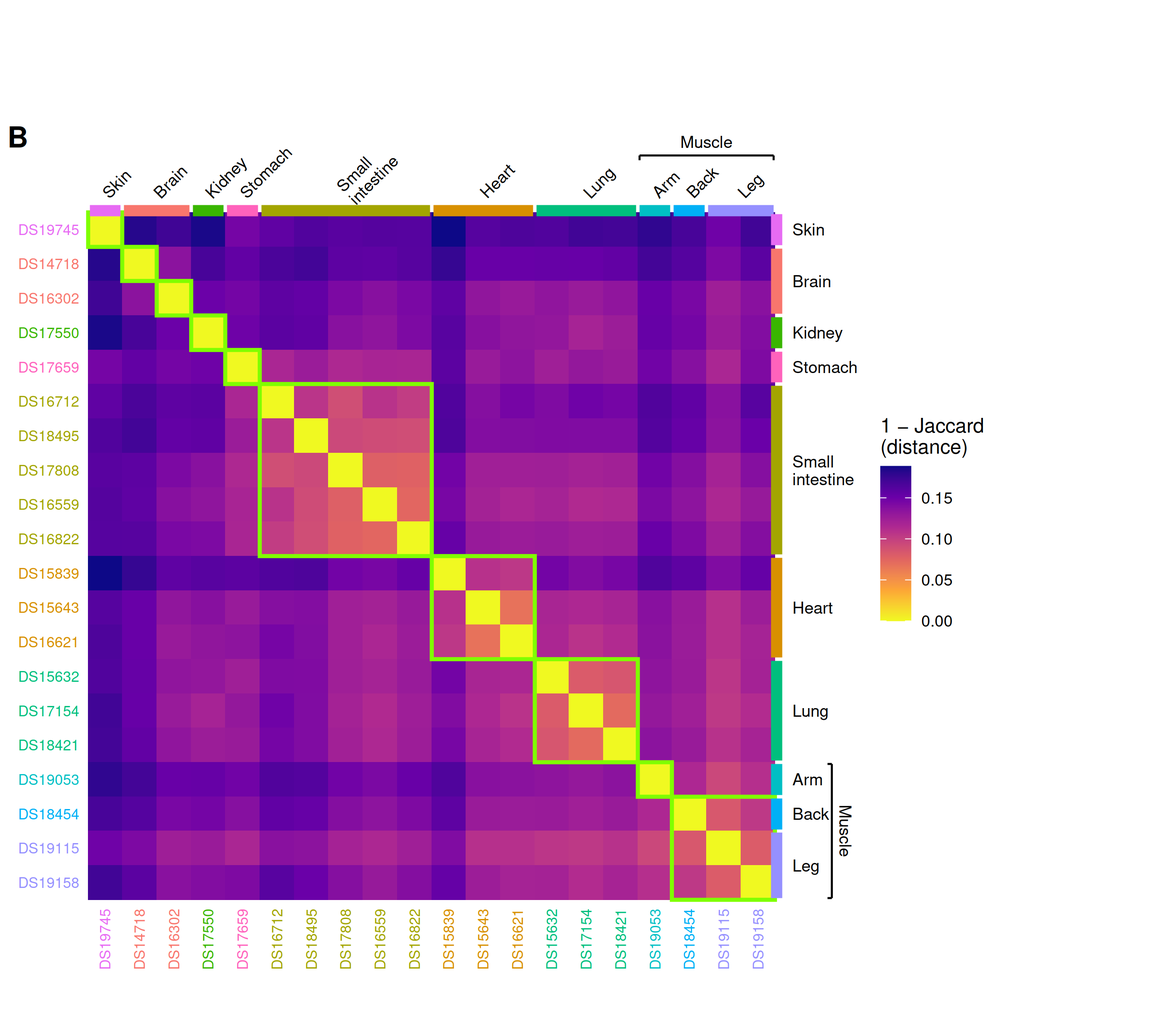
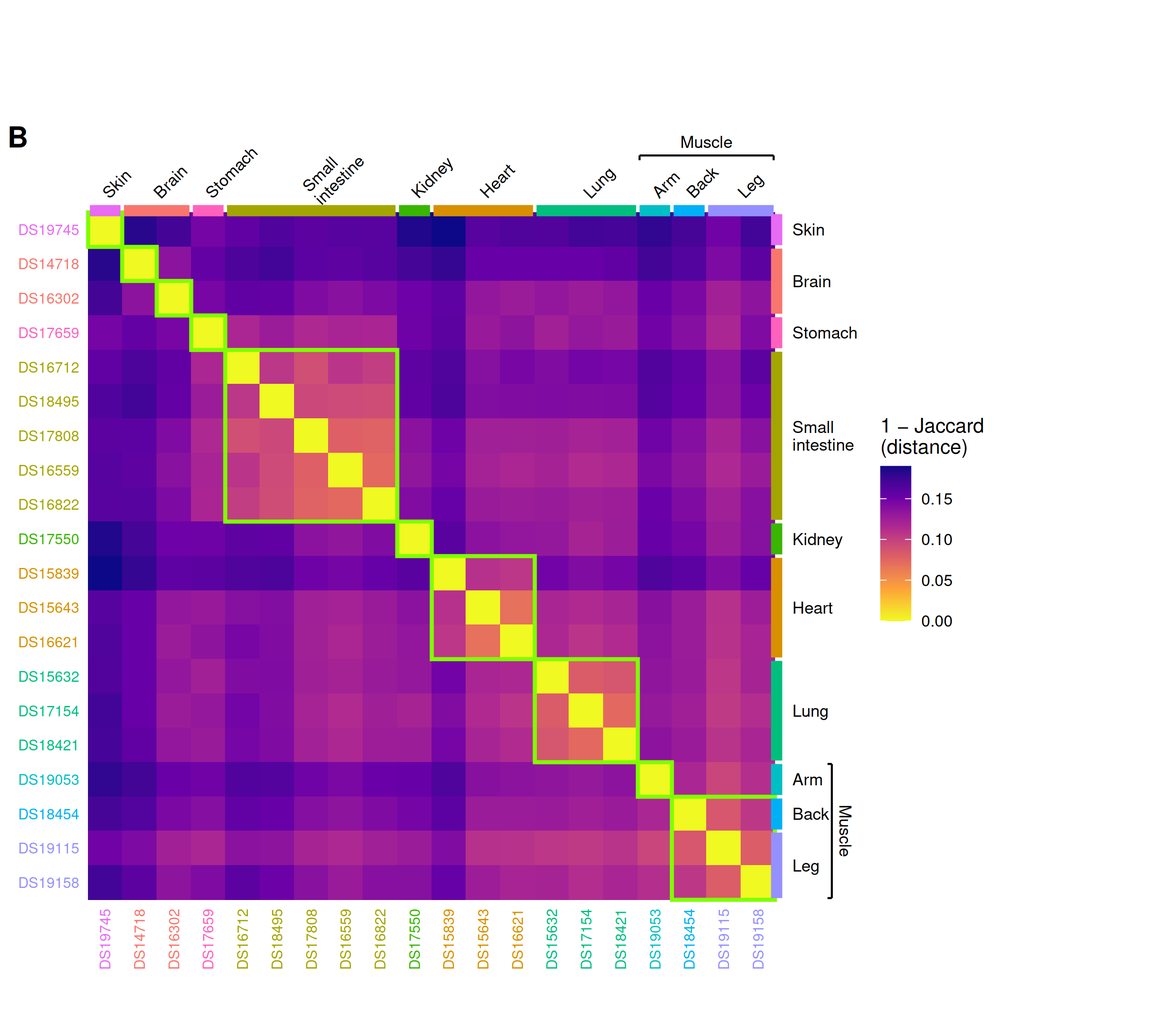
Add numerical-optimum tissue clustering supplement

diff --git a/paper/draft.md b/paper/draft.md
@@ -103,19 +103,19 @@ Together, the synthetic and real-data benchmarks show that hammock improves the 
 ### 2.3.2 Sequence sketches recover tissue organization
 
 - **Quantitative clustering result for the Results prose:** cutting the average-linkage dendrogram into the ten annotated tissue classes gives adjusted Rand index (ARI) = 0.9102 and normalized mutual information (NMI) = 0.9610. These values quantify a separate 10-cluster evaluation and should not be presented as properties of the visual tissue annotations in Figure 6.
-- **Figure interpretation:** Figure 6 itself does not display a discrete cluster cut. Its labels are colored by the known tissue annotations to show how biological identity is organized along the dendrogram.
+- **Figure interpretation:** Figure 6A does not display a discrete cluster cut; its labels are colored and boxed by the known tissue annotations. Figure 6B shows the separate ten-cluster evaluation as lime-green outlines on the corresponding distance matrix.
 
 ![Figure 6](figures/sequence_tissue_clustering.png)
 
 ![Figure 6B](figures/sequence_tissue_distance_heatmap.png)
 
-**Figure 6. Sequence sketches recover fetal-tissue organization in the Maurano DNase hypersensitivity collection.** Twenty fetal-tissue DNase-seq interval sets spanning ten annotated tissue labels were converted to interval-derived sequence and compared using the inclusion–exclusion Jaccard estimate, `jaccard_similarity_ie`, at k=10, w=30, and HyperLogLog precision p=24. **(A)** Average-linkage agglomerative hierarchical clustering was performed on 1−J. Leaf labels show dataset accessions and are colored and boxed by annotated tissue; these annotations do not represent a discrete cluster cut. **(B)** The complete pairwise 1−J distance matrix is ordered by the leaf order of the average-linkage dendrogram in A for direct comparison; this display ordering does not affect distances or cluster assignments. Accession-label colors and marginal bars denote annotated tissues, with arm, back, and leg grouped under muscle. Lime-green diagonal outlines show the ten clusters obtained by cutting the average-linkage hierarchy at k=10. They expose the departures from the annotated tissue partition: the two brain samples occupy separate singleton clusters, whereas the back sample and two leg samples occupy one cluster. The brain samples are nevertheless nearest neighbors (1−J=0.135), but their distance exceeds the tightest within-tissue distances for heart (~0.068) and lung (~0.072). Consequently, the ten-cluster cut occurs before the brain pair merges, yielding ARI=0.910 rather than 1.0.
+**Figure 6. Sequence sketches recover fetal-tissue organization in the Maurano DNase hypersensitivity collection.** Twenty fetal-tissue DNase-seq interval sets spanning ten annotated tissue labels were converted to interval-derived sequence and compared using the inclusion–exclusion Jaccard estimate, `jaccard_similarity_ie`, at k=10, w=30, and HyperLogLog precision p=18, the hammock CLI default. **(A)** Average-linkage agglomerative hierarchical clustering was performed on 1−J. Leaf labels show dataset accessions and are colored and boxed by annotated tissue; these annotations do not represent a discrete cluster cut. **(B)** The complete pairwise 1−J distance matrix is ordered by the leaf order of the average-linkage dendrogram in A for direct comparison; this display ordering does not affect distances or cluster assignments. Accession-label colors and marginal bars denote annotated tissues, with arm, back, and leg grouped under muscle. Lime-green diagonal outlines show the result of cutting the average-linkage hierarchy into ten clusters. They expose the departures from the annotated tissue partition: the two brain samples occupy separate singleton clusters, whereas the back sample and two leg samples occupy one cluster. The brain samples remain adjacent in the dendrogram leaf order, but their pairwise distance (1−J=0.136) exceeds the tightest within-tissue distances for heart (~0.069) and lung (~0.073). The outlined ten-cluster cut separates the brain pair while retaining those tighter groups, yielding ARI=0.910 rather than 1.0. The ten-cluster partition, ARI, and NMI are unchanged across every tested precision from p=12 through p=24.
 
-**Figure 6 generation.** Panel A is generated by `paper/sequence_tissue_clustering/plot_sequence_tissue_clustering.R` and written to `paper/figures/sequence_tissue_clustering.png`; Panel B is generated by `paper/sequence_tissue_clustering/plot_distance_heatmap.R` and written to `paper/figures/sequence_tissue_distance_heatmap.png`. Both scripts read `experiments/maurano_dhs_validation/results/raw_d/hammock_mnmzr_p24_jaccD_k10_w30_full.csv`, use `jaccard_similarity_ie`, and obtain tissue annotations from `experiments/maurano_dhs_validation/data/maurano_filenames_key.tsv`. The archived sweep predates the native inclusion–exclusion output column, so the scripts derive it from `containment_AB` and `containment_BA`. Optional command-line arguments can substitute another similarity CSV, tissue key, output path, or similarity column. Two further dendrogram renderings at different precisions are retained as supporting material rather than manuscript figures.
+**Figure 6 generation.** Panel A is generated by `paper/sequence_tissue_clustering/plot_sequence_tissue_clustering.R` and written to `paper/figures/sequence_tissue_clustering.png`; Panel B is generated by `paper/sequence_tissue_clustering/plot_distance_heatmap.R` and written to `paper/figures/sequence_tissue_distance_heatmap.png`. Both scripts read `experiments/maurano_dhs_validation/results/raw_d/hammock_mnmzr_p18_jaccD_k10_w30.csv`, use `jaccard_similarity_ie`, and obtain tissue annotations from `experiments/maurano_dhs_validation/data/maurano_filenames_key.tsv`. The archived sweep predates the native inclusion–exclusion output column, so the scripts derive it from `containment_AB` and `containment_BA`. Optional command-line arguments can substitute another similarity CSV, tissue key, output path, or similarity column.
 
 ### 2.3.3 Parameterization separates numerical agreement from biological resolution
 
-- **Figure 6 parameter choice for the Results prose:** k=10, w=30 is the ARI-optimal sequence-mode setting under both similarity estimators at p=24; the parameter sweep, rather than Figure 6 itself, is the evidence for that choice.
+- **Figure 6 parameter choice for the Results prose:** k=10, w=30 is the ARI-optimal sequence-mode setting under both similarity estimators at the displayed default precision p=18, and the same optimum and ten-cluster partition persist across every tested precision p=12–24; the parameter sweep, rather than Figure 6 itself, is the evidence for that choice.
 
 ![Figure 7](figures/parameter_objective_tradeoff_estimators.png)
 
@@ -213,7 +213,7 @@ Explain determinism, seed handling, expected sampling density, computational cos
 - **Why not the joint maximum-likelihood estimator.** *"Ertl's joint MLE is the lower-variance choice for HyperLogLog Jaccard, but it requires the joint register histogram of the pair, which hammock's sketch interface does not expose; the inclusion–exclusion form is recoverable from the containment estimates already computed and needs no additional interface."* Pre-empts the obvious reviewer question.
 - **Which column to report.** *"We report* `jaccard_similarity_ie` *for any comparison of magnitude, and for any comparison spanning different set sizes;* `reg_eq_similarity` *is retained as the low-cost default."*
   - One clause on the exception (register-equality ranks better below J ≈ 0.05 at p ≤ 20 among comparably-sized pairs, and one step of precision removes the advantage), with the quantification deferred to a supplementary note rather than carried in Methods.
-  - **Figure 6 estimator note:** Figure 6 now uses `jaccard_similarity_ie`, derived from the archived sweep's containment columns. At Figure 6's configuration (k=10, w=30, p=24), inclusion–exclusion and the archived register-equality column induce the *identical* 10-cluster partition — not merely equal scores, the same member sets — with ARI and NMI agreeing to sixteen digits. The equivalence is **local, not global**: across the 235-cell sweep the two columns give different ARI at 48 cells (max |ΔARI| 0.301). The disagreement decays with precision — 16 of 17 cells differ at p=10, but only 1 of 39 at p=24, and that one (k=8, w=500) has ARI 0.059 against 0.025, i.e. both clusterings are degenerate. So the defensible statement is "identical at p=24 except one degenerate cell, and at every cell the manuscript cites", not "identical everywhere". Generated by `paper/sequence_tissue_clustering/estimator_agreement_stats.csv` and `experiments/maurano_dhs_validation/results/estimator_ari_by_config.csv`. This is methodological context and should not be carried in the Figure 6 caption.
+  - **Figure 6 estimator note:** Figure 6 uses `jaccard_similarity_ie`, derived from the archived sweep's containment columns. At Figure 6's configuration (k=10, w=30, p=18), inclusion–exclusion and the archived register-equality column induce the *identical* 10-cluster partition — not merely equal scores, the same member sets — with ARI and NMI agreeing to sixteen digits. The same partition and scores occur for inclusion–exclusion at every tested precision p=12–24, although the complete dendrogram topology is identical to p=24 only at p≥22. The estimator equivalence is **local, not global**: across the 235-cell sweep the two columns give different ARI at 48 cells (max |ΔARI| 0.301). Generated by `paper/sequence_tissue_clustering/estimator_agreement_stats.csv` and `experiments/maurano_dhs_validation/results/estimator_ari_by_config.csv`.
 - **Complexity.** Retain the original stub: cost of mixed-stride sketch construction as a function of covered length and stride, alongside full interval ingestion and pairwise sketch comparison.
 
 ### 4.5 Datasets
@@ -260,9 +260,9 @@ The ordering differences under register-equality were small but systematic. Kend
 
 Figure 5 retains the register-equality column used by its original sequence-mode analysis. Figure 6 and its companion distance heatmap use `jaccard_similarity_ie`, while Figure 7 displays both estimators. Because the archived Figure 6 sweep carries `containment_AB` and `containment_BA`, its inclusion–exclusion column is exactly recoverable (`J = 1/(1/C_AB + 1/C_BA − 1)`), so the change requires no re-sketching.
 
-**Tissue clustering (Figure 6).** At k=10, w=30, p=24 the inclusion–exclusion and register-equality columns induce the identical ten-cluster partition (ARI = 0.9102, NMI = 0.9610 under both, agreeing to sixteen digits). Figure 6 now displays the inclusion–exclusion result. Across the full 235-cell (k, w, p) sweep the columns are *not* interchangeable — ARI differs at 48 cells, maximum |ΔARI| = 0.301 — but the disagreement is concentrated at low precision (16 of 17 cells at p=10 against 1 of 39 at p=24) and does not touch any configuration the manuscript reports.
+**Tissue clustering (Figure 6).** At k=10, w=30, p=18 the inclusion–exclusion and register-equality columns induce the identical ten-cluster partition (ARI = 0.9102, NMI = 0.9610 under both, agreeing to sixteen digits). Under inclusion–exclusion, that partition and those scores are unchanged across every tested precision p=12–24, although lower precisions can rearrange branches within the hierarchy. Across the full 235-cell (k, w, p) sweep the estimators are *not* interchangeable — ARI differs at 48 cells, maximum |ΔARI| = 0.301.
 
-The ten-cluster partition itself is not perfect (ARI 0.9102, not 1.0), and Figure 6A's tissue-colored boxes can make the shortfall harder to see than it is, because those boxes are drawn from the true tissue labels' contiguity in the leaf order, not from the `cutree(k=10)` assignment the ARI is computed from. Concretely, at this configuration `cutree` splits the two fBrain samples into two singleton clusters and groups the back sample with the two leg samples. Figure 6B plots the full pairwise 1−J distance matrix in the same leaf order and shows why: the fBrain pair's distance (0.135) is a real local minimum — they are each other's nearest neighbor — but it is larger than the tightest within-tissue distances for Heart (~0.068) or Lung (~0.072), so their merge is one of the ones pruned away when the tree is cut to exactly ten clusters.
+The ten-cluster partition itself is not perfect (ARI 0.9102, not 1.0), and Figure 6A's tissue-colored boxes can make the shortfall harder to see than it is, because those boxes are drawn from the true tissue labels' contiguity in the leaf order, not from the `cutree(k=10)` assignment the ARI is computed from. Concretely, at this configuration `cutree` splits the two fBrain samples into two singleton clusters and groups the back sample with the two leg samples. Figure 6B plots the full pairwise 1−J distance matrix in the same leaf order: the fBrain samples remain adjacent, but their pairwise distance (0.136) is larger than the tightest within-tissue distances for Heart (~0.069) or Lung (~0.073). The lime-green outlines show the resulting ten-cluster cut directly rather than asking the pairwise distances alone to imply it.
 
 **Parameter selection (Figure 7).** The ARI-optimal configuration is k=10, w=30 under both columns, at the same ARI of 0.9102, and the best-ARI value is reached on a plateau spanning every precision p ≥ 12. The Pearson-optimal configuration differs between columns — k=20, w=100 on `reg_eq_similarity` (r = 0.9996) against k=20, w=20 on `jaccard_similarity_ie` (r = 0.99997) — so the two panels of Figure 7 annotate different best-Pearson points. Figure 7's claim is unaffected: under either column the Pearson optimum has ARI 0.693 against the ARI optimum's 0.910, so numerical agreement and biological resolution still select different settings.
 
@@ -273,6 +273,16 @@ The ten-cluster partition itself is not perfect (ARI 0.9102, not 1.0), and Figur
 Caveat worth carrying: `jaccard_similarity_ie` is censored at zero by the non-negativity clamp on the inclusion–exclusion intersection, so an exact 0.0 means "clamped or empty", never "measured zero". This does not arise at the configurations above but would in a low-similarity corpus.
 
 ## Supplementary Figures and Tables
+
+### Figure S5a — tissue organization at the numerical optimum
+
+![Figure S5a, panel A](figures/sequence_tissue_clustering_k20_w20.png)
+
+![Figure S5a, panel B](figures/sequence_tissue_distance_heatmap_k20_w20.png)
+
+**Figure S5a. Numerical agreement with exact interval Jaccard does not maximize recovery of fetal-tissue organization.** The same 20 fetal-tissue DNase-seq interval sets shown in Figure 6 were compared using the inclusion–exclusion Jaccard estimate, `jaccard_similarity_ie`, at k=20, w=20, and HyperLogLog precision p=24—the parameter combination with the greatest Pearson correlation with exact BEDTools Jaccard within the p=24 comparison shown in Figure 7 (r=0.99997). **(A)** Average-linkage agglomerative hierarchical clustering was performed on 1−J. Leaf labels show dataset accessions and are colored and boxed by annotated tissue; these annotations do not represent a discrete cluster cut. **(B)** The complete pairwise 1−J distance matrix follows the dendrogram leaf order in A. Accession-label colors and marginal bars denote annotated tissues, with arm, back, and leg grouped under muscle. Lime-green diagonal outlines show the result of cutting the average-linkage agglomerative hierarchy into ten clusters. Relative to the annotated tissue partition, the cut separates the two brain samples, separates one of the five small-intestine samples, and combines the arm, back, and two leg samples into one cluster, yielding ARI=0.693 and NMI=0.905. In contrast, the biologically selected k=10, w=30 setting in Figure 6 at the default p=18 yields ARI=0.910 and NMI=0.961, demonstrating that numerical agreement with exact pairwise Jaccard and recovery of tissue organization select different sequence-sketch parameters.
+
+**Figure S5a generation.** Panel A is generated by `paper/sequence_tissue_clustering/plot_sequence_tissue_clustering.R` using `experiments/maurano_dhs_validation/results/raw_d/hammock_mnmzr_p24_jaccD_k20_w20.csv`, the Maurano tissue key, `paper/figures/sequence_tissue_clustering_k20_w20.png`, and `jaccard_similarity_ie` as its four positional arguments. Panel B is generated by `paper/sequence_tissue_clustering/plot_distance_heatmap.R` with the same input CSV, tissue key, `paper/figures/sequence_tissue_distance_heatmap_k20_w20.png`, and similarity-column argument.
 
 - **Figure S5b — cross-reference dendrogram on `jaccard_similarity_ie`:** `paper/figures/cross_reference_identity_ie.png`, generated by `paper/cross_reference_identity/plot_cross_reference_identity.R` with the output path and `jaccard_similarity_ie` as its two positional arguments. Companion to Figure 5; see S5.
 - **Table S5 — estimator agreement:** `paper/sequence_tissue_clustering/estimator_agreement_stats.csv` (per-column ARI/NMI and partition identity at Figure 6's cell), `experiments/maurano_dhs_validation/results/estimator_ari_by_config.csv` (all 235 cells), `experiments/maurano_dhs_validation/results/best_config_by_column.csv` (per-column optimum with tie sets), and `experiments/ref-comparison/results/exp_a_estimator_delta.csv` (cross-reference Δ per cell).

diff --git a/paper/outline.md b/paper/outline.md
@@ -76,25 +76,35 @@ Together, the synthetic and real-data benchmarks show that hammock improves the 
 #### 2.3.2 Sequence sketches recover tissue organization
 
 - **Quantitative clustering result for the Results prose:** cutting the average-linkage dendrogram into the ten annotated tissue classes gives adjusted Rand index (ARI) = 0.9102 and normalized mutual information (NMI) = 0.9610. These values quantify a separate 10-cluster evaluation and should not be presented as properties of the visual tissue annotations in Figure 6.
-- **Figure interpretation:** Figure 6 itself does not display a discrete cluster cut. Its labels are colored by the known tissue annotations to show how biological identity is organized along the dendrogram.
+- **Figure interpretation:** Figure 6A does not display a discrete cluster cut; its labels are colored and boxed by the known tissue annotations. Figure 6B shows the separate ten-cluster evaluation as lime-green outlines on the corresponding distance matrix.
 
 ![Figure 6](figures/sequence_tissue_clustering.png)
 
 ![Figure 6B](figures/sequence_tissue_distance_heatmap.png)
 
-**Figure 6. Sequence sketches recover fetal-tissue organization in the Maurano DNase hypersensitivity collection.** Twenty fetal-tissue DNase-seq interval sets spanning ten annotated tissue labels were converted to interval-derived sequence and compared using the inclusion–exclusion Jaccard estimate, `jaccard_similarity_ie`, at k=10, w=30, and HyperLogLog precision p=24. **(A)** Average-linkage agglomerative hierarchical clustering was performed on 1−J. Leaf labels show dataset accessions and are colored and boxed by annotated tissue; these annotations do not represent a discrete cluster cut. **(B)** The complete pairwise 1−J distance matrix follows the leaf order of the average-linkage dendrogram in A for direct comparison; this display ordering does not affect distances or cluster assignments. Accession-label colors and marginal bars denote annotated tissues, with arm, back, and leg grouped under muscle. Lime-green diagonal outlines show the ten clusters obtained by cutting the average-linkage hierarchy at k=10. The brain samples occupy separate singleton clusters, whereas the back sample and two leg samples occupy one cluster, yielding ARI=0.910 rather than 1.0.
+**Figure 6. Sequence sketches recover fetal-tissue organization in the Maurano DNase hypersensitivity collection.** Twenty fetal-tissue DNase-seq interval sets spanning ten annotated tissue labels were converted to interval-derived sequence and compared using the inclusion–exclusion Jaccard estimate, `jaccard_similarity_ie`, at k=10, w=30, and HyperLogLog precision p=18, the hammock CLI default. **(A)** Average-linkage agglomerative hierarchical clustering was performed on 1−J. Leaf labels show dataset accessions and are colored and boxed by annotated tissue; these annotations do not represent a discrete cluster cut. **(B)** The complete pairwise 1−J distance matrix follows the leaf order of the average-linkage dendrogram in A for direct comparison; this display ordering does not affect distances or cluster assignments. Accession-label colors and marginal bars denote annotated tissues, with arm, back, and leg grouped under muscle. Lime-green diagonal outlines show the result of cutting the average-linkage agglomerative hierarchy into ten clusters. They expose the departures from the annotated tissue partition: the two brain samples occupy separate singleton clusters, whereas the back sample and two leg samples occupy one cluster. The brain samples remain adjacent in the dendrogram leaf order, but their pairwise distance (1−J=0.136) exceeds the tightest within-tissue distances for heart (~0.069) and lung (~0.073). The outlined ten-cluster cut separates the brain pair while retaining those tighter groups, yielding ARI=0.910 rather than 1.0. The ten-cluster partition, ARI, and NMI are unchanged across every tested precision from p=12 through p=24.
 
-**Figure 6 generation.** Panel A is generated by `paper/sequence_tissue_clustering/plot_sequence_tissue_clustering.R` and written to `paper/figures/sequence_tissue_clustering.png`; Panel B is generated by `paper/sequence_tissue_clustering/plot_distance_heatmap.R` and written to `paper/figures/sequence_tissue_distance_heatmap.png`. Both scripts read `experiments/maurano_dhs_validation/results/raw_d/hammock_mnmzr_p24_jaccD_k10_w30_full.csv`, use `jaccard_similarity_ie`, and obtain tissue annotations from `experiments/maurano_dhs_validation/data/maurano_filenames_key.tsv`. The archived sweep predates the native inclusion–exclusion output column, so the scripts derive it from `containment_AB` and `containment_BA`.
+**Figure 6 generation.** Panel A is generated by `paper/sequence_tissue_clustering/plot_sequence_tissue_clustering.R` and written to `paper/figures/sequence_tissue_clustering.png`; Panel B is generated by `paper/sequence_tissue_clustering/plot_distance_heatmap.R` and written to `paper/figures/sequence_tissue_distance_heatmap.png`. Both scripts read `experiments/maurano_dhs_validation/results/raw_d/hammock_mnmzr_p18_jaccD_k10_w30.csv`, use `jaccard_similarity_ie`, and obtain tissue annotations from `experiments/maurano_dhs_validation/data/maurano_filenames_key.tsv`. The archived sweep predates the native inclusion–exclusion output column, so the scripts derive it from `containment_AB` and `containment_BA`.
 
 ### 2.3.3 Parameterization separates numerical agreement from biological resolution
 
-- **Figure 6 parameter choice for the Results prose:** k=10, w=30 is the ARI-optimal sequence-mode setting under both similarity estimators at p=24; the parameter sweep, rather than Figure 6 itself, is the evidence for that choice.
+- **Figure 6 parameter choice for the Results prose:** k=10, w=30 is the ARI-optimal sequence-mode setting under both similarity estimators at the displayed default precision p=18, and the same optimum and ten-cluster partition persist across every tested precision p=12–24; the parameter sweep, rather than Figure 6 itself, is the evidence for that choice.
 
 ![Figure 7](figures/parameter_objective_tradeoff_estimators.png)
 
 **Figure 7. Sequence parameters determine biological recovery, while similarity estimator choice primarily changes numerical calibration.** Sequence-mode parameter configurations were evaluated on 20 Maurano fetal-tissue DNase hypersensitivity interval sets at HyperLogLog precision p=24 using the same minimizer-derived HLL sketches but two alternative similarity estimators. Panel A shows the inclusion–exclusion Jaccard estimate (`jaccard_similarity_ie`), and Panel B shows Hammock's register-equality statistic (`reg_eq_similarity`). Each point represents one combination of k-mer size (k) and minimizer-window size (w); the x-axis gives Pearson correlation with exact BEDTools Jaccard across pairwise comparisons, and the y-axis gives adjusted Rand index (ARI) for recovery of the ten annotated tissue classes after clustering. Point color encodes k and point size encodes w. In each panel, the estimator-specific configuration with greatest numerical agreement is emphasized by an orange-red outline, and the shared k=10, w=30 biological optimum used in Figure 6 is marked by a hollow orange-red diamond; dotted leader lines connect these highlighted points to their callouts. The numerical optimum shifts from k=20, w=20 for inclusion–exclusion (r=0.99997) to k=20, w=100 for register equality (r=0.9996), whereas the biological optimum remains k=10, w=30 with ARI=0.9102 under both estimators. At p=24, after restricting the plotted sweep to k≥8, the estimators give the same ARI at 36 of 37 parameter cells. The lone exception, k=8, w=500, is identified by a grey outline and is biologically uninformative under both estimators (ARI 0.025 versus 0.059). At the Figure 6 setting, the two estimators produce the identical ten-cluster partition, not merely the same summary score. Thus estimator choice changes numerical calibration and the location of the BEDTools-matching optimum, while the biologically useful parameter region and the selected tissue-recovery optimum are stable at the precision used in the manuscript.
 
 **Figure 7 generation.** The paired figure is generated by `paper/parameter_objective_tradeoff/plot_parameter_objective_tradeoff_estimators.R` and written to `paper/figures/parameter_objective_tradeoff_estimators.png`. The existing `plot_parameter_objective_tradeoff.R` is retained unchanged as the single-estimator diagnostic workflow. The new script reads `docs/data/mode_d_summary.csv`, supplementing from `experiments/maurano_dhs_validation/results/mode_d_summary.csv` if the staged paper copy lacks a current estimator, and filters to p=24, BEDTools reference, k≥8, and non-missing Pearson/ARI values. It computes the estimator-specific Pearson optima, verifies the k=10, w=30 ARI optimum under both estimators, and derives the p=24 ARI-disagreement count directly from matched (k,w) cells.
+
+### Supplementary Figure S5a — tissue organization at the numerical optimum
+
+![Figure S5a, panel A](figures/sequence_tissue_clustering_k20_w20.png)
+
+![Figure S5a, panel B](figures/sequence_tissue_distance_heatmap_k20_w20.png)
+
+**Figure S5a. Numerical agreement with exact interval Jaccard does not maximize recovery of fetal-tissue organization.** The same 20 fetal-tissue DNase-seq interval sets shown in Figure 6 were compared using the inclusion–exclusion Jaccard estimate, `jaccard_similarity_ie`, at k=20, w=20, and HyperLogLog precision p=24—the parameter combination with the greatest Pearson correlation with exact BEDTools Jaccard within the p=24 comparison shown in Figure 7 (r=0.99997). **(A)** Average-linkage agglomerative hierarchical clustering was performed on 1−J. Leaf labels show dataset accessions and are colored and boxed by annotated tissue; these annotations do not represent a discrete cluster cut. **(B)** The complete pairwise 1−J distance matrix follows the dendrogram leaf order in A; this display ordering does not affect distances or cluster assignments. Accession-label colors and marginal bars denote annotated tissues, with arm, back, and leg grouped under muscle. Lime-green diagonal outlines show the result of cutting the average-linkage agglomerative hierarchy into ten clusters. Relative to the annotated tissue partition, the cut separates the two brain samples, separates one of the five small-intestine samples, and combines the arm, back, and two leg samples into one cluster, yielding ARI=0.693 and NMI=0.905. In contrast, the biologically selected k=10, w=30 setting in Figure 6 at the default p=18 yields ARI=0.910 and NMI=0.961, demonstrating that numerical agreement with exact pairwise Jaccard and recovery of tissue organization select different sequence-sketch parameters.
+
+**Figure S5a generation.** Panel A is generated by `paper/sequence_tissue_clustering/plot_sequence_tissue_clustering.R` using `experiments/maurano_dhs_validation/results/raw_d/hammock_mnmzr_p24_jaccD_k20_w20.csv`, the Maurano tissue key, `paper/figures/sequence_tissue_clustering_k20_w20.png`, and `jaccard_similarity_ie` as its four positional arguments. Panel B is generated by `paper/sequence_tissue_clustering/plot_distance_heatmap.R` with the same input CSV, tissue key, `paper/figures/sequence_tissue_distance_heatmap_k20_w20.png`, and similarity-column argument.
 
 ## III. Discussion
 
@@ -185,7 +195,7 @@ Explain determinism, seed handling, expected sampling density, computational cos
 - **Why not the joint maximum-likelihood estimator.** *"Ertl's joint MLE is the lower-variance choice for HyperLogLog Jaccard, but it requires the joint register histogram of the pair, which hammock's sketch interface does not expose; the inclusion–exclusion form is recoverable from the containment estimates already computed and needs no additional interface."* Pre-empts the obvious reviewer question.
 - **Which column to report.** *"We report* `jaccard_similarity_ie` *for any comparison of magnitude, and for any comparison spanning different set sizes;* `reg_eq_similarity` *is retained as the low-cost default."*
   - One clause on the exception (register-equality ranks better below J ≈ 0.05 at p ≤ 20 among comparably-sized pairs, and one step of precision removes the advantage); the quantification is deferred rather than carried in Methods.
-  - **Figure 6 estimator note:** Figure 6 uses `jaccard_similarity_ie`, derived from the archived sweep's containment columns. At Figure 6's configuration (k=10, w=30, p=24) the inclusion–exclusion and register-equality columns induce the *identical* 10-cluster partition — not merely equal scores, the same member sets — with ARI and NMI agreeing to sixteen digits. The equivalence is **local, not global**: across the 235-cell sweep the two columns give different ARI at 48 cells (max |ΔARI| 0.301). The disagreement decays with precision — 16 of 17 cells differ at p=10, but only 1 of 39 at p=24, and that one (k=8, w=500) has ARI 0.059 against 0.025, i.e. both clusterings are degenerate. So the defensible statement is "identical at p=24 except one degenerate cell, and at every cell the manuscript cites", not "identical everywhere". Generated by `paper/sequence_tissue_clustering/estimator_agreement_stats.csv` and `experiments/maurano_dhs_validation/results/estimator_ari_by_config.csv`. This is methodological context and should not be carried in the Figure 6 caption.
+  - **Figure 6 estimator note:** Figure 6 uses `jaccard_similarity_ie`, derived from the archived sweep's containment columns. At Figure 6's displayed configuration (k=10, w=30, p=18), inclusion–exclusion and register equality induce the *identical* 10-cluster partition, with ARI and NMI agreeing to sixteen digits. Under inclusion–exclusion, the same partition and scores occur at every tested precision p=12–24, although the complete topology and leaf order match p=24 only at p≥22. The estimator equivalence is **local, not global**: across the 235-cell sweep the two columns give different ARI at 48 cells (max |ΔARI| 0.301). Generated by `paper/sequence_tissue_clustering/estimator_agreement_stats.csv` and `experiments/maurano_dhs_validation/results/estimator_ari_by_config.csv`.
 - **Complexity.** Retain the original stub: cost of mixed-stride sketch construction as a function of covered length and stride, alongside full interval ingestion and pairwise sketch comparison.
 
 ### 4.5 Datasets
